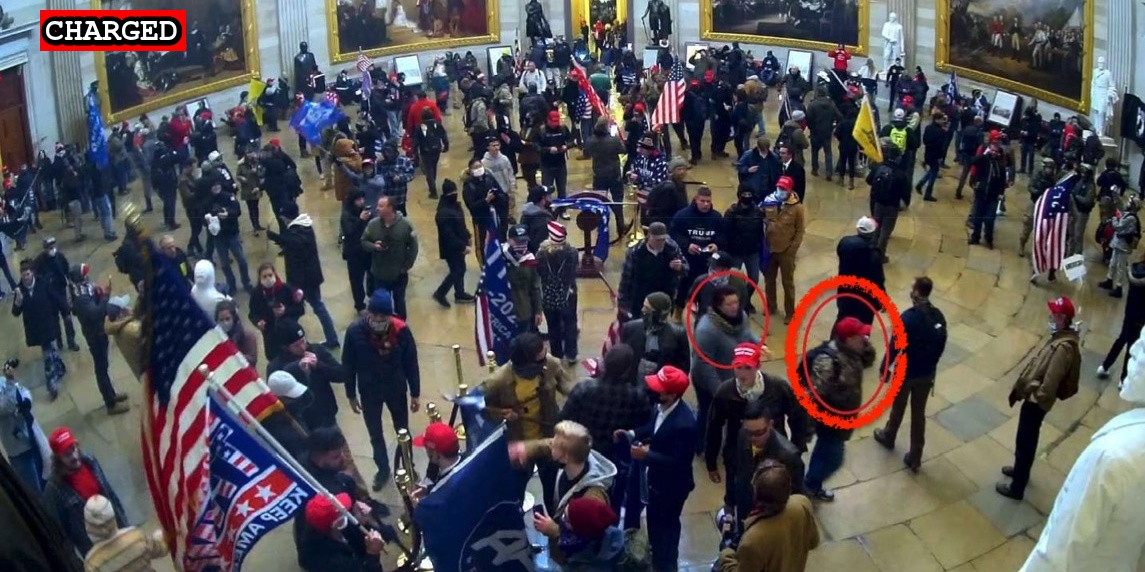
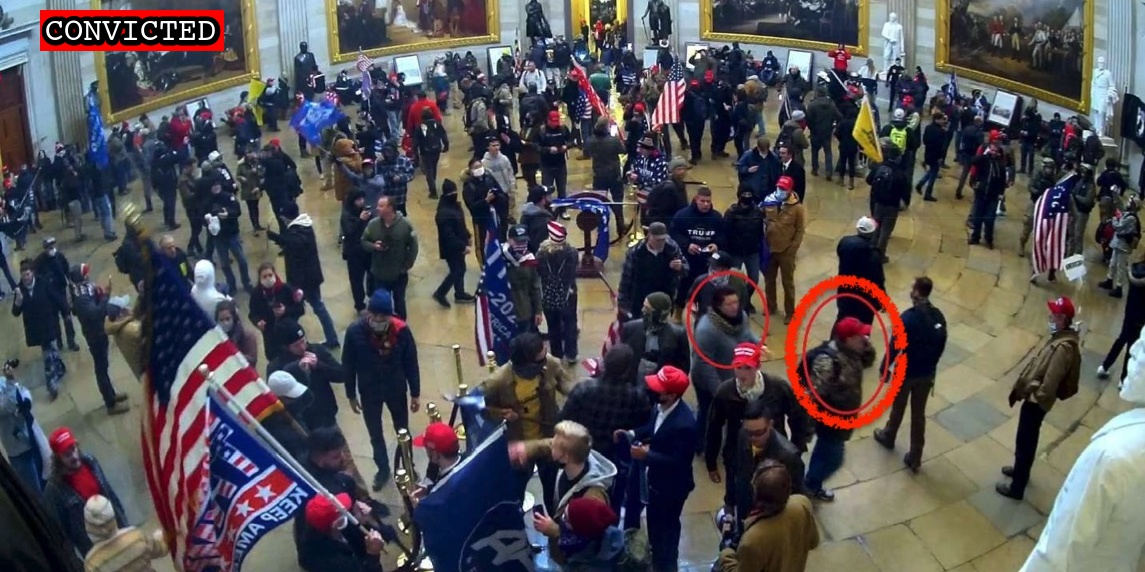
More sentencing

Changed region(s): [[0.0306, 0.0, 0.214, 0.0892]]

diff --git a/docs/_suspects/annie-howell.md b/docs/_suspects/annie-howell.md
@@ -4,16 +4,16 @@ lastName: Howell
 hashtag: AnnieHowell
 aka:
 residence: Pennsylvania
-status: Indicted
+status: Convicted
 date: 2021-03-02
 charged: 2021-03-02
 indicted: 2021-03-12
-convicted: 
-sentenced: 
-dismissed: 
+convicted: 2021-12-02
+sentenced:
+dismissed:
 deceased:
-plea_hearing:
-sentencing:
+plea_hearing: 2021-12-02
+sentencing: 2022-03-02
 age: 30
 occupation:
 affiliations:
@@ -34,8 +34,13 @@ published: true
 caseNumber: 1:21-cr-217
 videos:
 charges:
+  - code: 18 USC § 5104(e)(2)(G)
+    title: Parading, demonstrating or picketing in a Capitol building
+    url: https://www.law.cornell.edu/uscode/text/40/5104
+    felony: false
 sentence:
 ---
+
 - [News Report](https://whyy.org/articles/fbi-says-luzerne-county-woman-filmed-inside-capitol-on-jan-6/)
 - [Statement of Facts](https://www.justice.gov/usao-dc/case-multi-defendant/file/1378871/download)
 - [Indictment](https://www.justice.gov/usao-dc/case-multi-defendant/file/1378861/download)

diff --git a/docs/_suspects/john-getsinger.md b/docs/_suspects/john-getsinger.md
@@ -4,16 +4,16 @@ lastName: Getsinger
 hashtag: JohnGetsinger
 aka:
 residence: South Carolina
-status: Charged
+status: Convicted
 date: 2021-06-09
 charged: 2021-06-09
 indicted:
-convicted:
+convicted: 2021-12-02
 sentenced:
 dismissed:
 deceased:
-plea_hearing:
-sentencing:
+plea_hearing: 2021-12-02
+sentencing: 2022-04-21
 age: 52
 occupation:
 affiliations:
@@ -34,7 +34,12 @@ published: true
 caseNumber:
 videos:
 charges:
+  - code: 18 USC § 5104(e)(2)(G)
+    title: Parading, demonstrating or picketing in a Capitol building
+    url: https://www.law.cornell.edu/uscode/text/40/5104
+    felony: false
 sentence:
 ---
+
 - [News Report](https://www.berkeleyobserver.com/2021/06/15/hanahan-couple-accused-of-taking-part-in-u-s-capitol-riot-arrested/)
 - [Statement of Facts](https://www.justice.gov/usao-dc/case-multi-defendant/file/1405456/download)

diff --git a/docs/_suspects/stacie-hargis-getsinger.md b/docs/_suspects/stacie-hargis-getsinger.md
@@ -4,16 +4,16 @@ lastName: Hargis Getsinger
 hashtag: StacieGetsinger
 aka:
 residence: South Carolina
-status: Charged
+status: Convicted
 date: 2021-06-09
 charged: 2021-06-09
 indicted:
-convicted:
+convicted: 2021-12-02
 sentenced:
 dismissed:
 deceased:
-plea_hearing:
-sentencing:
+plea_hearing: 2021-12-02
+sentencing: 2022-04-21
 age: 43
 occupation:
 affiliations:
@@ -34,6 +34,10 @@ published: true
 caseNumber:
 videos:
 charges:
+  - code: 18 USC § 5104(e)(2)(G)
+    title: Parading, demonstrating or picketing in a Capitol building
+    url: https://www.law.cornell.edu/uscode/text/40/5104
+    felony: false
 sentence:
 ---
 

diff --git a/docs/_suspects/phillip-bromley.md b/docs/_suspects/phillip-bromley.md
@@ -45,3 +45,4 @@ sentence:
 - [Complaint](https://extremism.gwu.edu/sites/g/files/zaxdzs2191/f/Phillip%20Andrew%20Bromley%20Criminal%20Complaint.pdf)
 - [Statement of Facts](https://www.justice.gov/usao-dc/case-multi-defendant/file/1371306/download)
 - [Information](https://www.justice.gov/usao-dc/case-multi-defendant/file/1382341/download)
+- [Plea Agreement](https://storage.courtlistener.com/recap/gov.uscourts.dcd.229332/gov.uscourts.dcd.229332.37.0.pdf)
